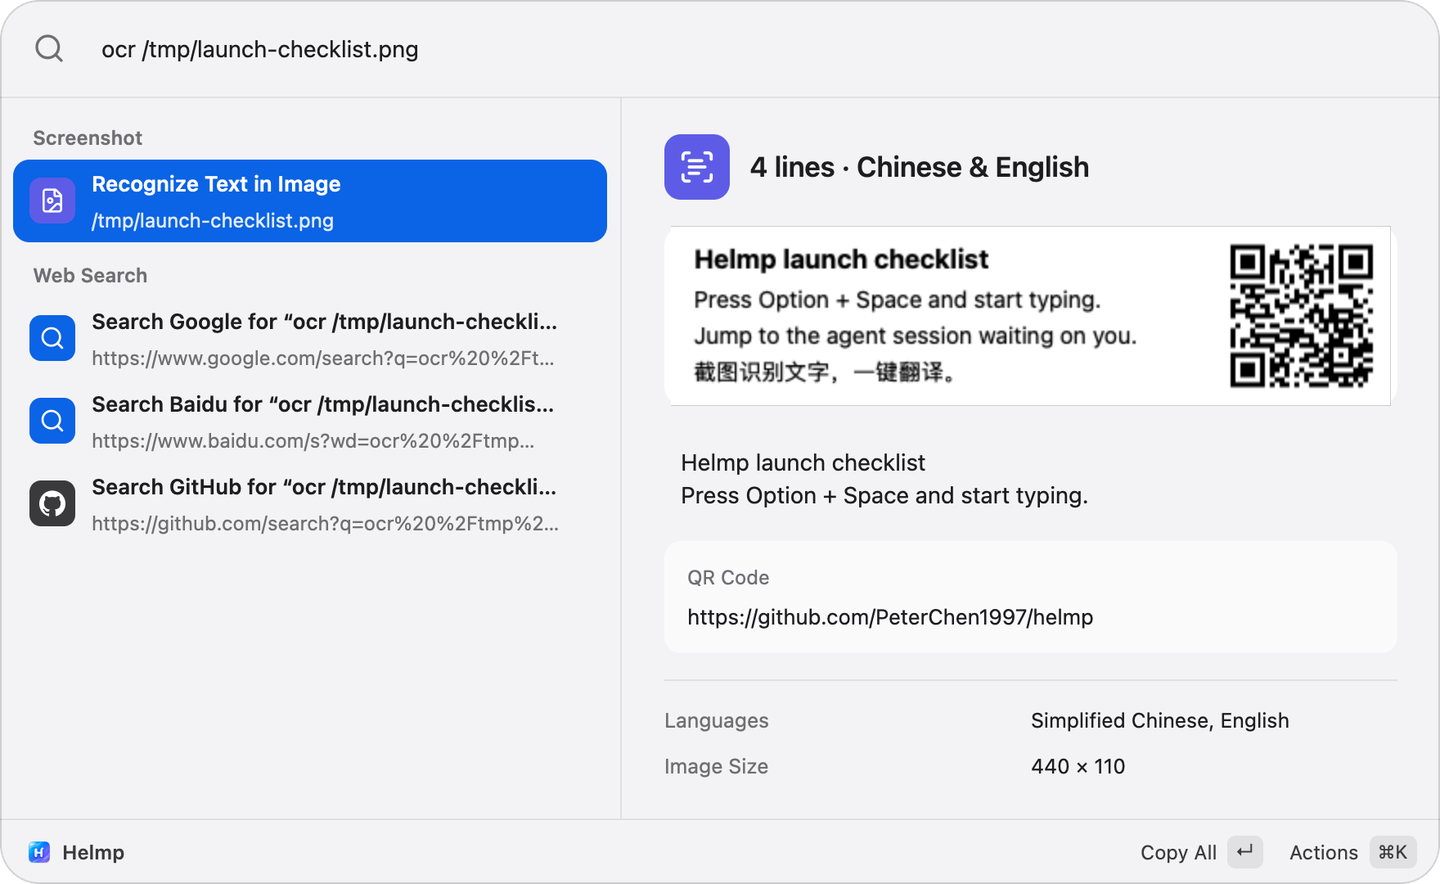
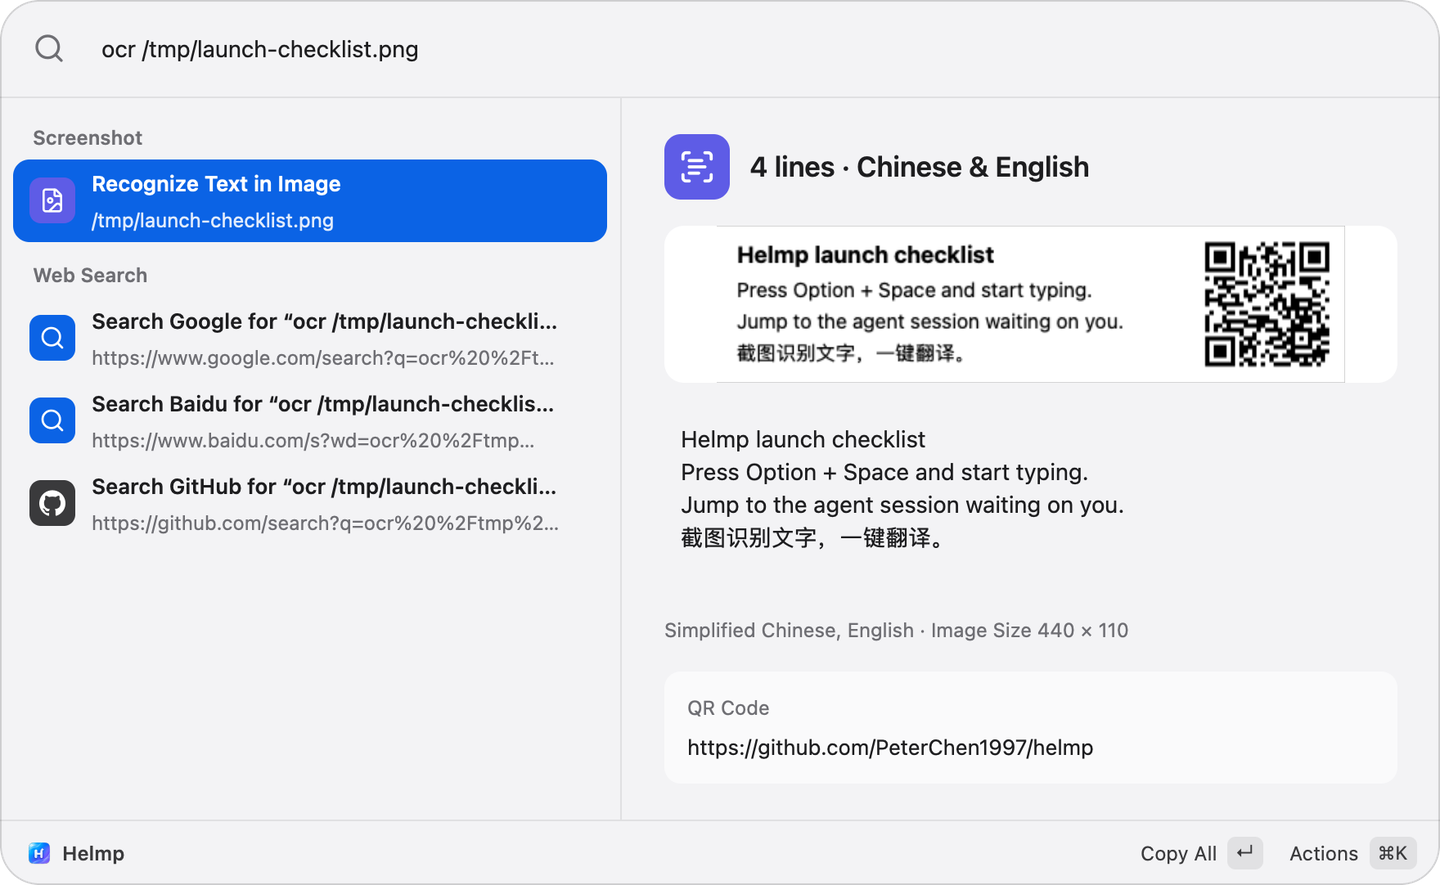
fix: 截图识别详情不再把文字挤成两行
有可选中的识别结果时，截图预览缩成矮条（最高 96pt），识别语言和尺寸从底部键值表改成
结果下面的一行小字，结果文字至少留三行。README 的 OCR 截图按新布局重拍。

diff --git a/src/providers/screenshot/mod.rs b/src/providers/screenshot/mod.rs
@@ -568,21 +568,20 @@ fn ocr_detail(
             .into(),
         ));
     }
+    // 识别语言和尺寸压成文字下面的一行小字：面板高度有限，单独占一块键值表会把识别结果挤得只剩两行。
+    let mut caption = language_names(languages);
+    if shown.width > 0 && shown.height > 0 {
+        caption.push_str(&format!(
+            " · {} {} × {}",
+            shown.size_label, shown.width, shown.height
+        ));
+    }
+    blocks.push(Block::Caption(caption));
     if !found.codes.is_empty() {
         blocks.push(Block::Quote {
             label: tr("二维码", "QR Code").into(),
             text: found.codes.join("\n"),
         });
-    }
-    let mut metadata = vec![(
-        tr("识别语言", "Languages").to_string(),
-        language_names(languages),
-    )];
-    if shown.width > 0 && shown.height > 0 {
-        metadata.push((
-            shown.size_label.to_string(),
-            format!("{} × {}", shown.width, shown.height),
-        ));
     }
     let open_link = |url: &str, shortcut: Option<&str>| {
         NamedAction::new(tr("打开链接", "Open Link"), shortcut, Action::open(url))
@@ -643,7 +642,7 @@ fn ocr_detail(
         title,
         tag: copied.then(|| (tr("已复制", "Copied").to_string(), Tone::Done)),
         blocks,
-        metadata,
+        metadata: Vec::new(),
     }
 }
 
@@ -866,15 +865,18 @@ mod tests {
         };
         assert_eq!(detail.title, "识别到 2 行 · 中英混合");
         assert_eq!(detail.tag, None);
-        let [Block::Image(image), Block::Result { text, large: false }] = detail.blocks.as_slice()
+        let [
+            Block::Image(image),
+            Block::Result { text, large: false },
+            Block::Caption(caption),
+        ] = detail.blocks.as_slice()
         else {
             panic!("{:?}", detail.blocks);
         };
         ocr::tests::assert_fixture_text(text);
         assert!(image.starts_with(&dir.0) && image.exists());
-        assert_eq!(detail.metadata[0], ("识别语言".into(), "简体中文、英文".into()));
-        assert_eq!(detail.metadata[1].0, "图片尺寸");
-        assert!(detail.metadata[1].1.contains(" × "));
+        assert!(caption.starts_with("简体中文、英文 · 图片尺寸 "), "{caption}");
+        assert!(caption.contains(" × "), "{caption}");
         // 次级操作「复制识别结果」读的就是这次的文字。
         assert_eq!(last_text().unwrap(), *text);
     }
@@ -884,6 +886,14 @@ mod tests {
         // 路径打错要报错，不能显示「没有识别到文字」误导用户。
         let dir = TempDir::new("missing");
         assert!(ocr_file(Path::new("/nonexistent/helmp-ocr.png"), &dir.0, &[]).is_err());
+    }
+
+    /// 识别结果下面那行「语言 · 尺寸」小字。
+    fn caption_of(detail: &Detail) -> Option<&str> {
+        detail.blocks.iter().find_map(|block| match block {
+            Block::Caption(text) => Some(text.as_str()),
+            _ => None,
+        })
     }
 
     fn shown() -> Shown {
@@ -932,11 +942,8 @@ mod tests {
             Outcome::EnterScopeWith("translate", "你好 Huan 2026\nThe quick brown fox".into())
         );
         assert_eq!(
-            detail.metadata,
-            [
-                ("识别语言".to_string(), "简体中文、英文".to_string()),
-                ("区域尺寸".to_string(), "640 × 220".to_string())
-            ]
+            caption_of(&detail),
+            Some("简体中文、英文 · 区域尺寸 640 × 220")
         );
     }
 
@@ -947,10 +954,10 @@ mod tests {
         let empty = ocr_detail(&found("", &[]), &shown(), false, &["ja-JP".to_string()]);
         assert_eq!(empty.title, "没有识别到文字");
         assert_eq!(empty.tag, None);
-        assert!(matches!(&empty.blocks[..], [Block::Image(_), Block::Text(advice)] if advice.contains("没有可识别的文字")));
+        assert!(matches!(&empty.blocks[..], [Block::Image(_), Block::Text(advice), Block::Caption(_)] if advice.contains("没有可识别的文字")));
         assert_eq!(action_titles(&empty), ["再试一次"]);
         assert!(empty.actions[0].action.is_rerun());
-        assert_eq!(empty.metadata[0].1, "日文");
+        assert_eq!(caption_of(&empty), Some("日文 · 区域尺寸 640 × 220"));
     }
 
     #[test]
@@ -1082,14 +1089,8 @@ mod tests {
             assert_eq!(detail.title, "2 lines · English");
             assert_eq!(detail.tag, Some(("Copied".into(), Tone::Done)));
             assert_eq!(
-                detail.metadata,
-                [
-                    (
-                        "Languages".to_string(),
-                        "Simplified Chinese, English".to_string()
-                    ),
-                    ("Selection Size".to_string(), "640 × 220".to_string())
-                ]
+                caption_of(&detail),
+                Some("Simplified Chinese, English · Selection Size 640 × 220")
             );
             assert_eq!(
                 ocr_detail(&found("你好", &[]), &shown, false, &[]).title,

diff --git a/src/launcher.rs b/src/launcher.rs
@@ -1494,6 +1494,10 @@ fn render_detail(
                 .child(heading),
         );
     }
+    let has_result = detail
+        .blocks
+        .iter()
+        .any(|block| matches!(block, Block::Result { .. }));
     for block in &detail.blocks {
         pane = pane.child(match block {
             Block::Text(text) => div()
@@ -1508,7 +1512,7 @@ fn render_detail(
                     .flex()
                     .flex_col()
                     .flex_1()
-                    .min_h(px(line * 2.))
+                    .min_h(px(line * 3.))
                     .text_size(px(size))
                     .line_height(px(line))
                     .text_color(pal.fg);
@@ -1556,15 +1560,17 @@ fn render_detail(
                         .line_height(px(21.))
                         .child(text.clone()),
                 ),
+            // 有可选中的结果文字时图只当参照，缩成矮条，把高度让给文字。
             Block::Image(path) => div()
                 .flex()
+                .flex_none()
                 .justify_center()
                 .rounded(px(12.))
                 .bg(pal.control)
                 .overflow_hidden()
                 .child(
                     img(path.clone())
-                        .max_h(px(220.))
+                        .max_h(px(if has_result { 96. } else { 220. }))
                         .max_w_full()
                         .object_fit(ObjectFit::Contain),
                 ),
